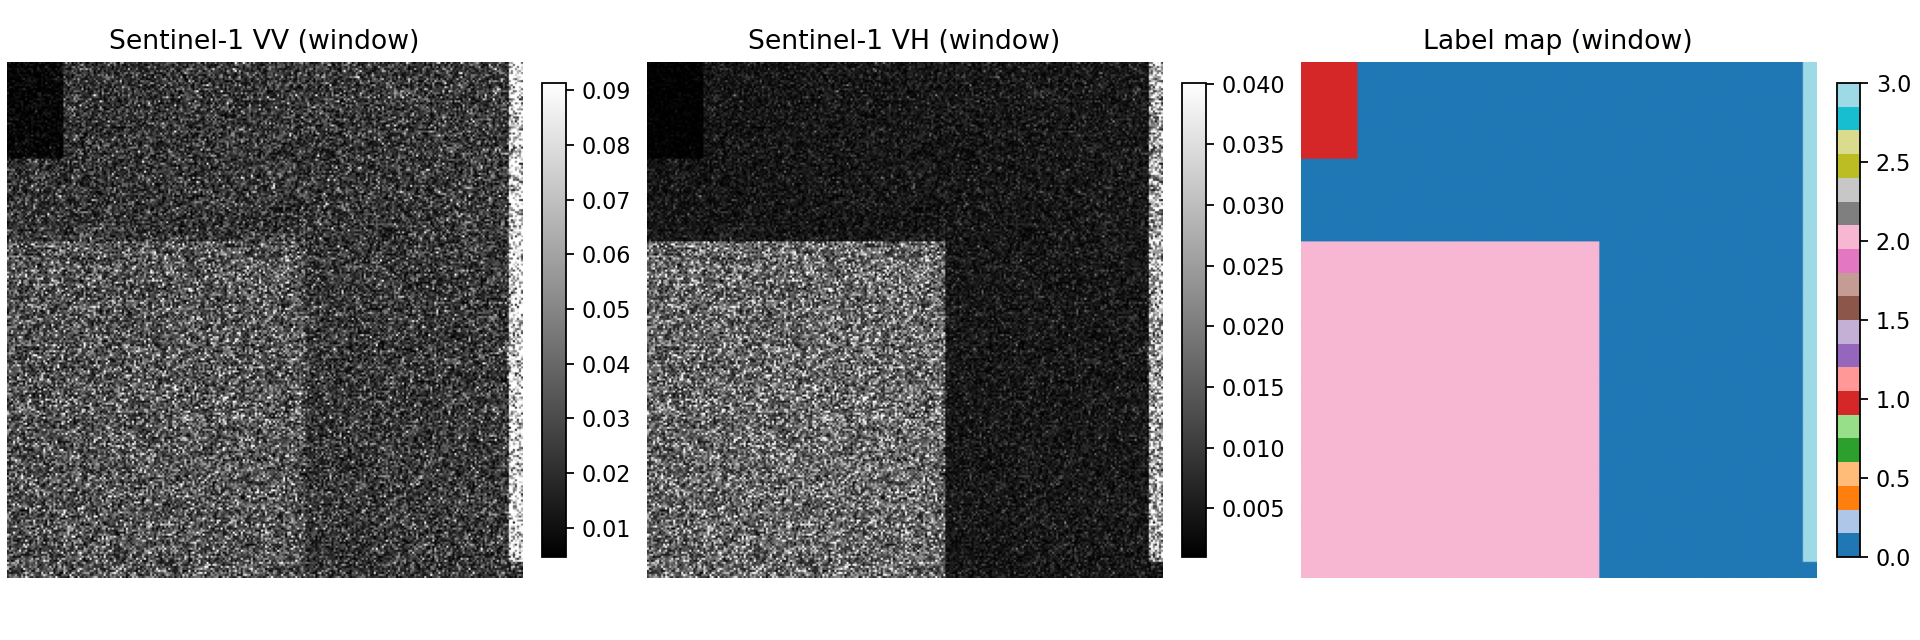
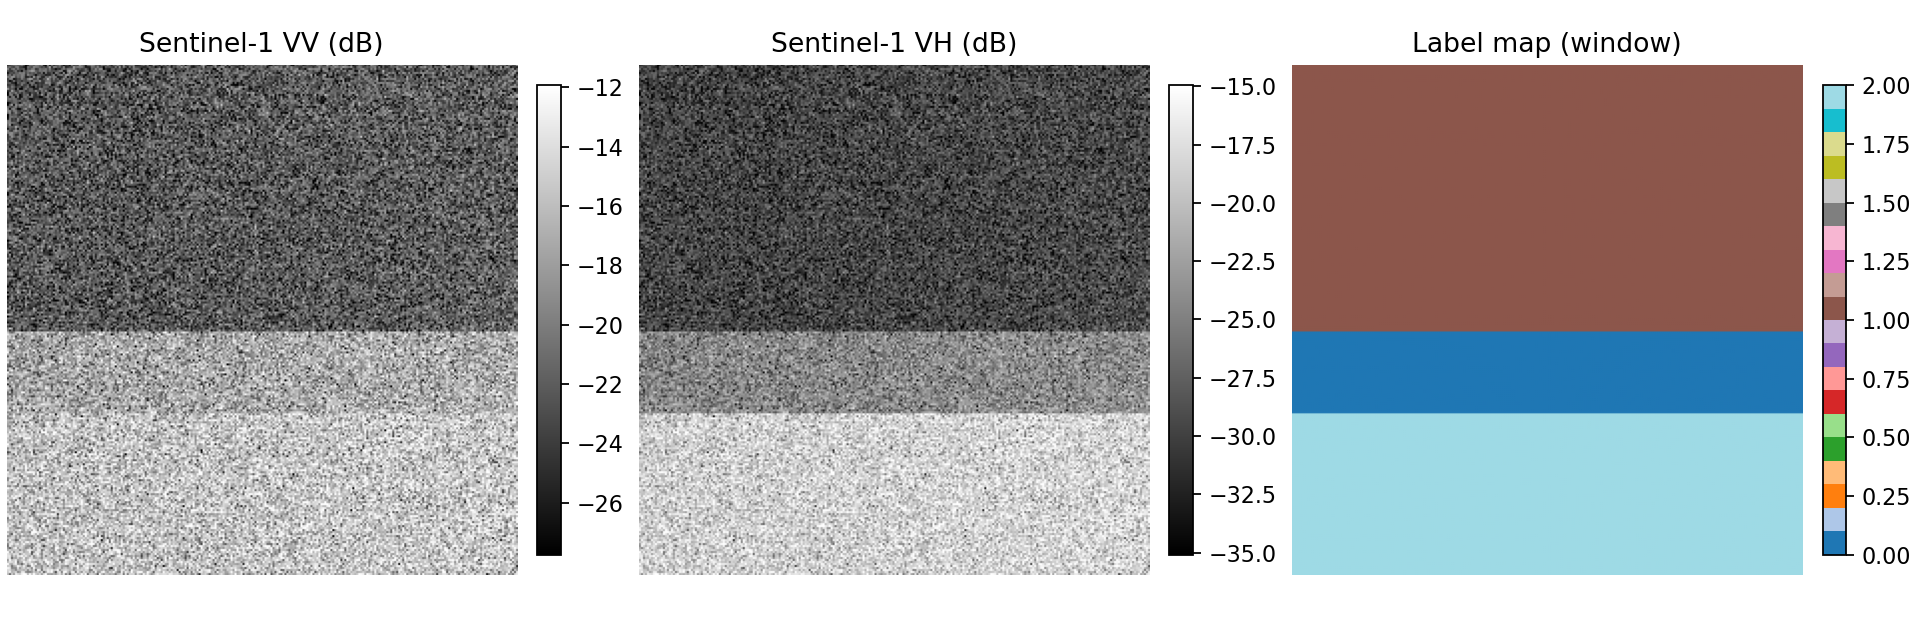
Visuals: render Sentinel-1 in dB and pick textured window

diff --git a/scripts/generate_readme_visuals.py b/scripts/generate_readme_visuals.py
@@ -80,6 +80,16 @@ def _robust_vmin_vmax(x: np.ndarray, p_lo: float = 2.0, p_hi: float = 98.0) -> t
     return lo, hi
 
 
+def _to_db(x: np.ndarray, *, eps: float = 1e-8) -> np.ndarray:
+    """Convert a nonnegative backscatter-like array to decibels.
+
+    Assumes `x` is in linear scale (e.g., sigma0). Values <= 0 are clipped to `eps`.
+    """
+
+    arr = np.asarray(x, dtype="float32", order="C")
+    return (10.0 * np.log10(np.clip(arr, float(eps), None))).astype("float32", copy=False)
+
+
 def _ndvi_from_planet_pf_sr(arr: np.ndarray) -> np.ndarray:
     """Compute NDVI from Planet PF-SR 4-band imagery (assumed order: B, G, R, NIR)."""
 
@@ -191,27 +201,53 @@ def plot_sentinel1_vv_vh_labels(
             raise ValueError("Input rasters must be on the same grid (transform mismatch).")
 
         size = int(window_size)
-        row_off = max(0, (ds_vv.height - size) // 2)
-        col_off = max(0, (ds_vv.width - size) // 2)
-        win = WindowSpec(row_off=row_off, col_off=col_off, height=size, width=size).to_window()
+        size = int(min(size, ds_vv.height, ds_vv.width))
+        if size <= 0:
+            raise ValueError(f"window_size must be positive. Got {window_size}.")
+
+        # Pick a window with strong texture/contrast so the SAR layers look like SAR.
+        max_row_off = max(0, int(ds_vv.height - size))
+        max_col_off = max(0, int(ds_vv.width - size))
+        row_offsets = np.unique(np.linspace(0, max_row_off, num=min(5, max_row_off + 1)).round().astype(int))
+        col_offsets = np.unique(np.linspace(0, max_col_off, num=min(5, max_col_off + 1)).round().astype(int))
+        best_score = -np.inf
+        best_row_off, best_col_off = 0, 0
+        for row_off in row_offsets:
+            for col_off in col_offsets:
+                win0 = WindowSpec(
+                    row_off=int(row_off),
+                    col_off=int(col_off),
+                    height=size,
+                    width=size,
+                ).to_window()
+                vv0 = ds_vv.read(1, window=win0).astype("float32", copy=False)
+                score = float(np.nanstd(_to_db(vv0)))
+                if np.isfinite(score) and score > best_score:
+                    best_score = score
+                    best_row_off, best_col_off = int(row_off), int(col_off)
+
+        win = WindowSpec(row_off=best_row_off, col_off=best_col_off, height=size, width=size).to_window()
 
         vv = ds_vv.read(1, window=win).astype("float32", copy=False)
         vh = ds_vh.read(1, window=win).astype("float32", copy=False)
         y = ds_y.read(1, window=win).astype("int32", copy=False)
 
-    vv_lo, vv_hi = _robust_vmin_vmax(vv)
-    vh_lo, vh_hi = _robust_vmin_vmax(vh)
+    vv_db = _to_db(vv)
+    vh_db = _to_db(vh)
+
+    vv_lo, vv_hi = _robust_vmin_vmax(vv_db)
+    vh_lo, vh_hi = _robust_vmin_vmax(vh_db)
 
     fig, axes = plt.subplots(1, 3, figsize=(12, 4), constrained_layout=True)
     ax = axes[0]
-    im = ax.imshow(vv, cmap="gray", vmin=vv_lo, vmax=vv_hi)
-    ax.set_title("Sentinel-1 VV (window)")
+    im = ax.imshow(vv_db, cmap="gray", vmin=vv_lo, vmax=vv_hi)
+    ax.set_title("Sentinel-1 VV (dB)")
     fig.colorbar(im, ax=ax, fraction=0.046, pad=0.04)
     ax.axis("off")
 
     ax = axes[1]
-    im = ax.imshow(vh, cmap="gray", vmin=vh_lo, vmax=vh_hi)
-    ax.set_title("Sentinel-1 VH (window)")
+    im = ax.imshow(vh_db, cmap="gray", vmin=vh_lo, vmax=vh_hi)
+    ax.set_title("Sentinel-1 VH (dB)")
     fig.colorbar(im, ax=ax, fraction=0.046, pad=0.04)
     ax.axis("off")
 

diff --git a/README.md b/README.md
@@ -83,7 +83,7 @@ support-aware operators on non-synthetic inputs:
 
 ![Planet→Sentinel-2 NDVI projection sanity check](docs/assets/planet_to_s2_ndvi_window.png)
 
-**Sentinel-1 VV/VH window + label map (leakage-aware spatial CV demo data)**
+**Sentinel-1 VV/VH (dB) window + label map (leakage-aware spatial CV demo data)**
 
 ![Sentinel-1 VV/VH and label map window](docs/assets/sentinel1_vv_vh_labelmap.png)
 
